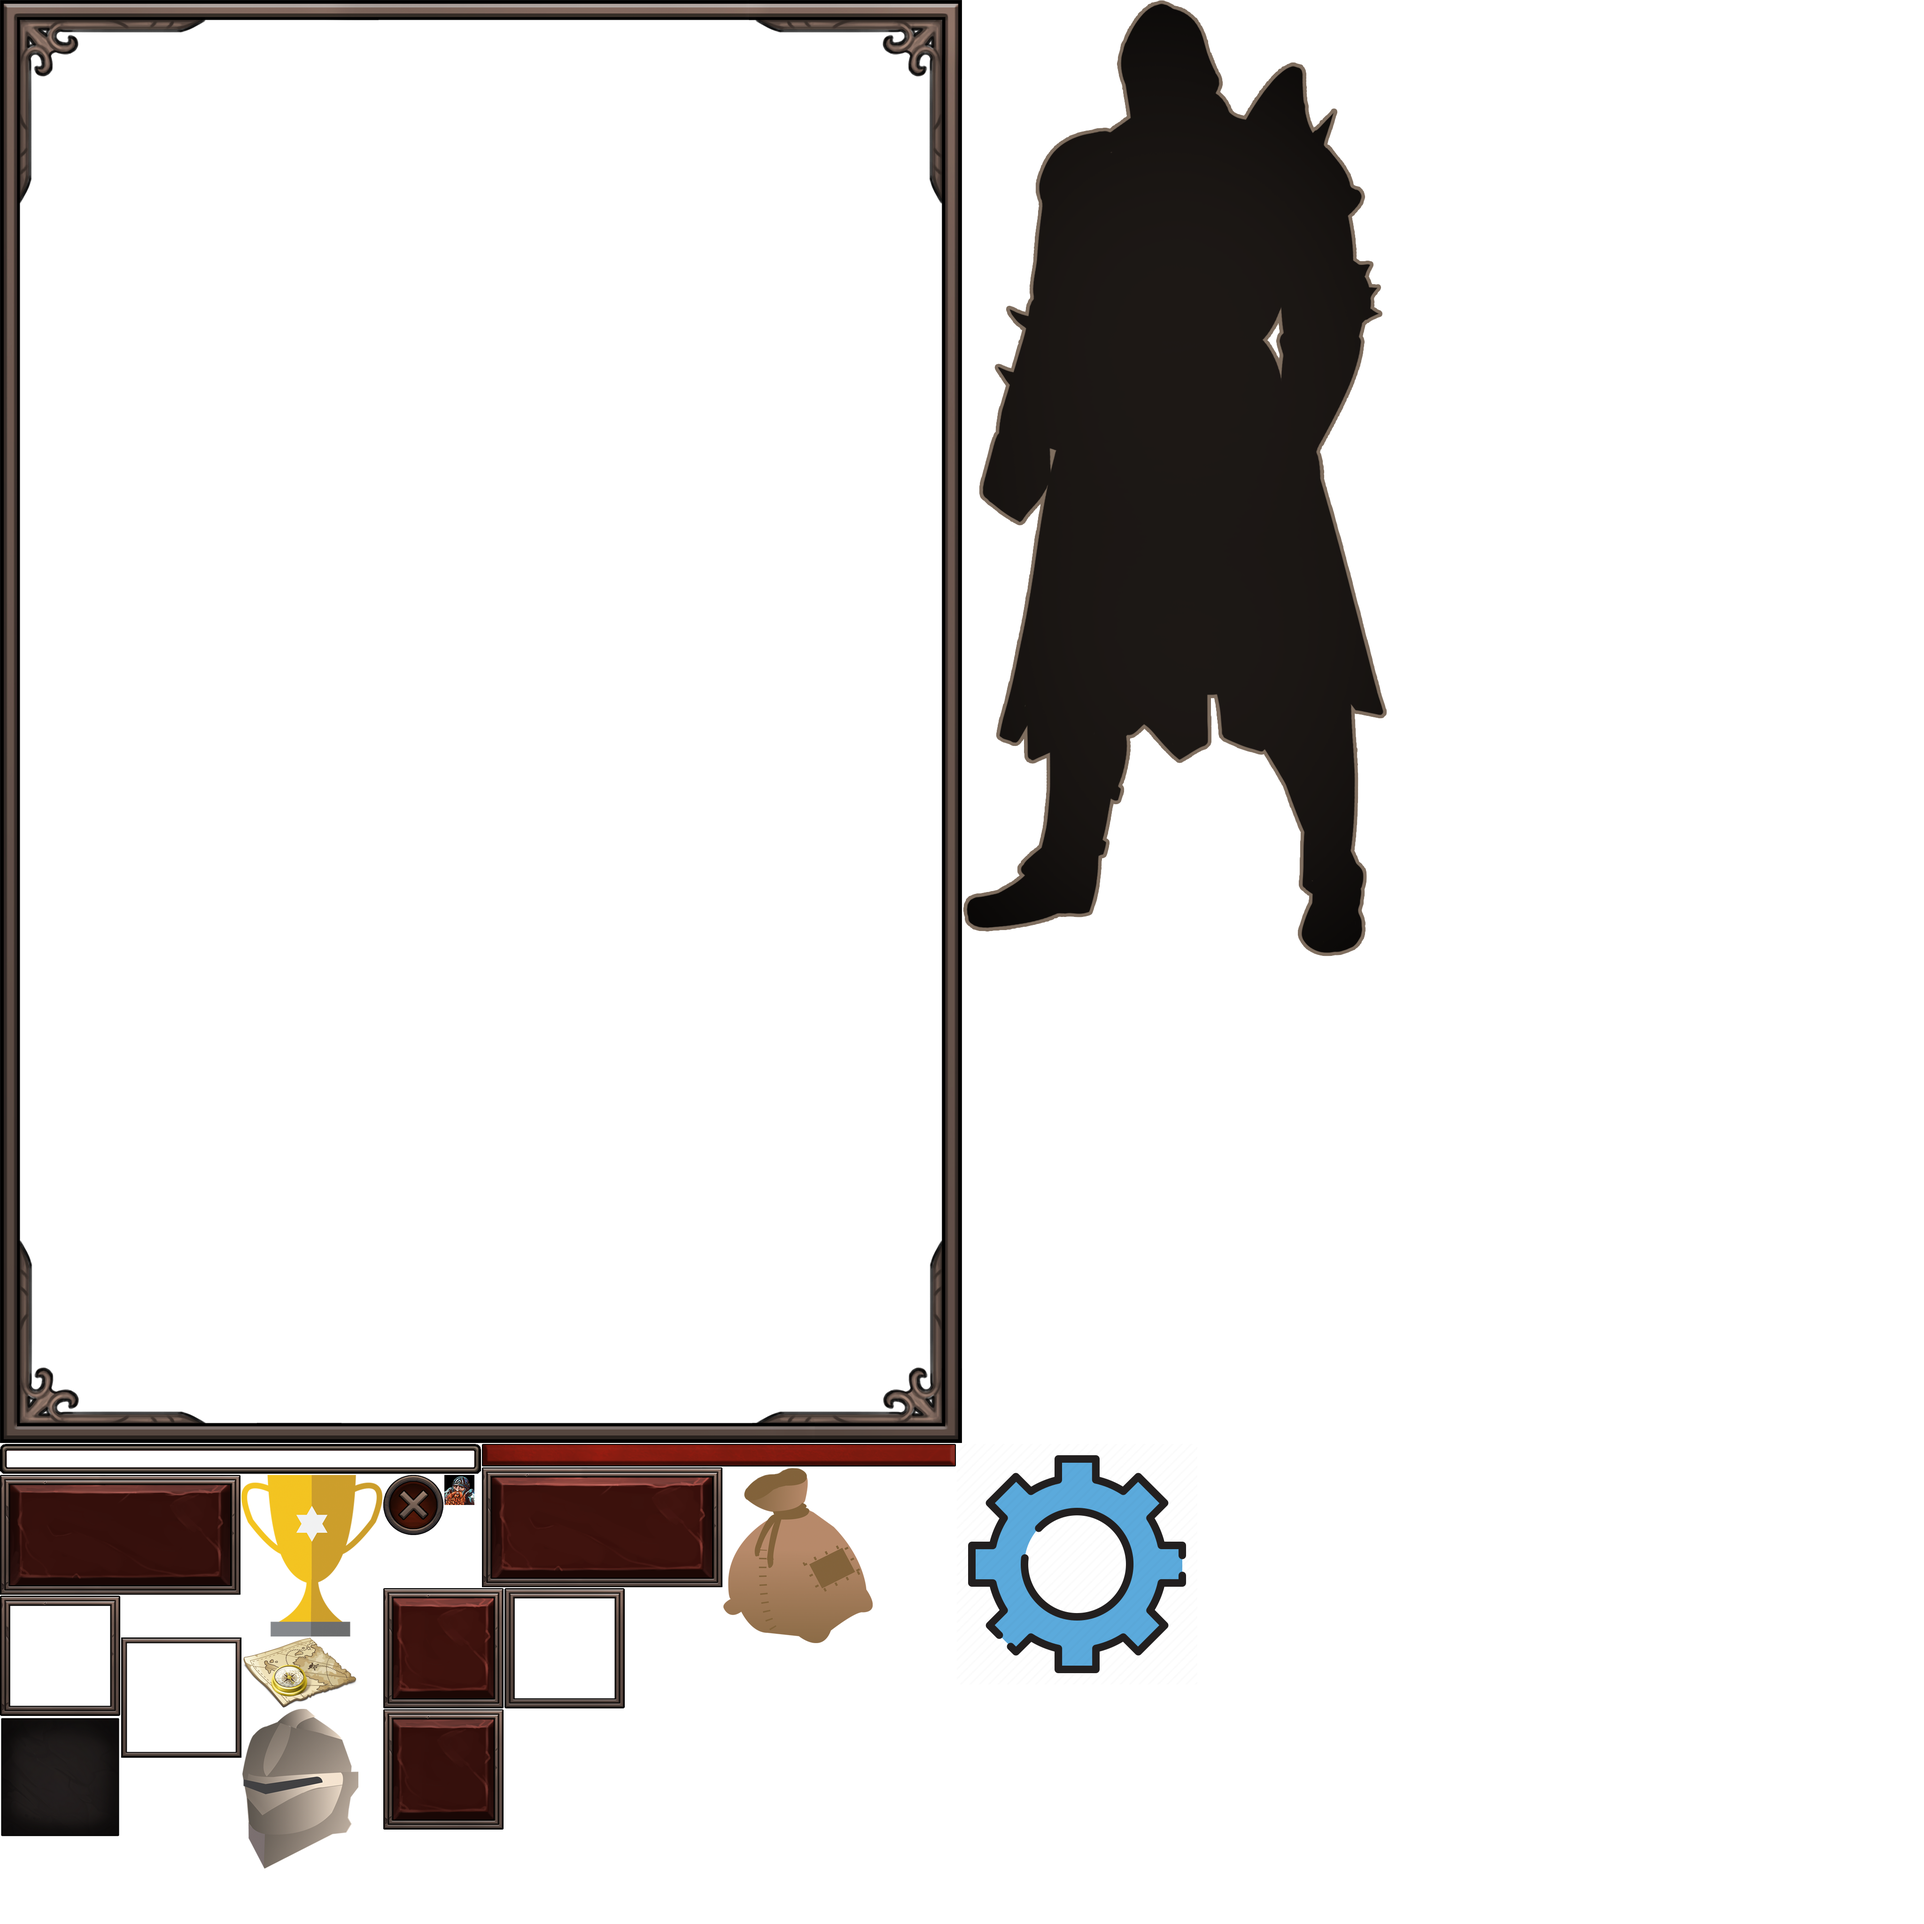
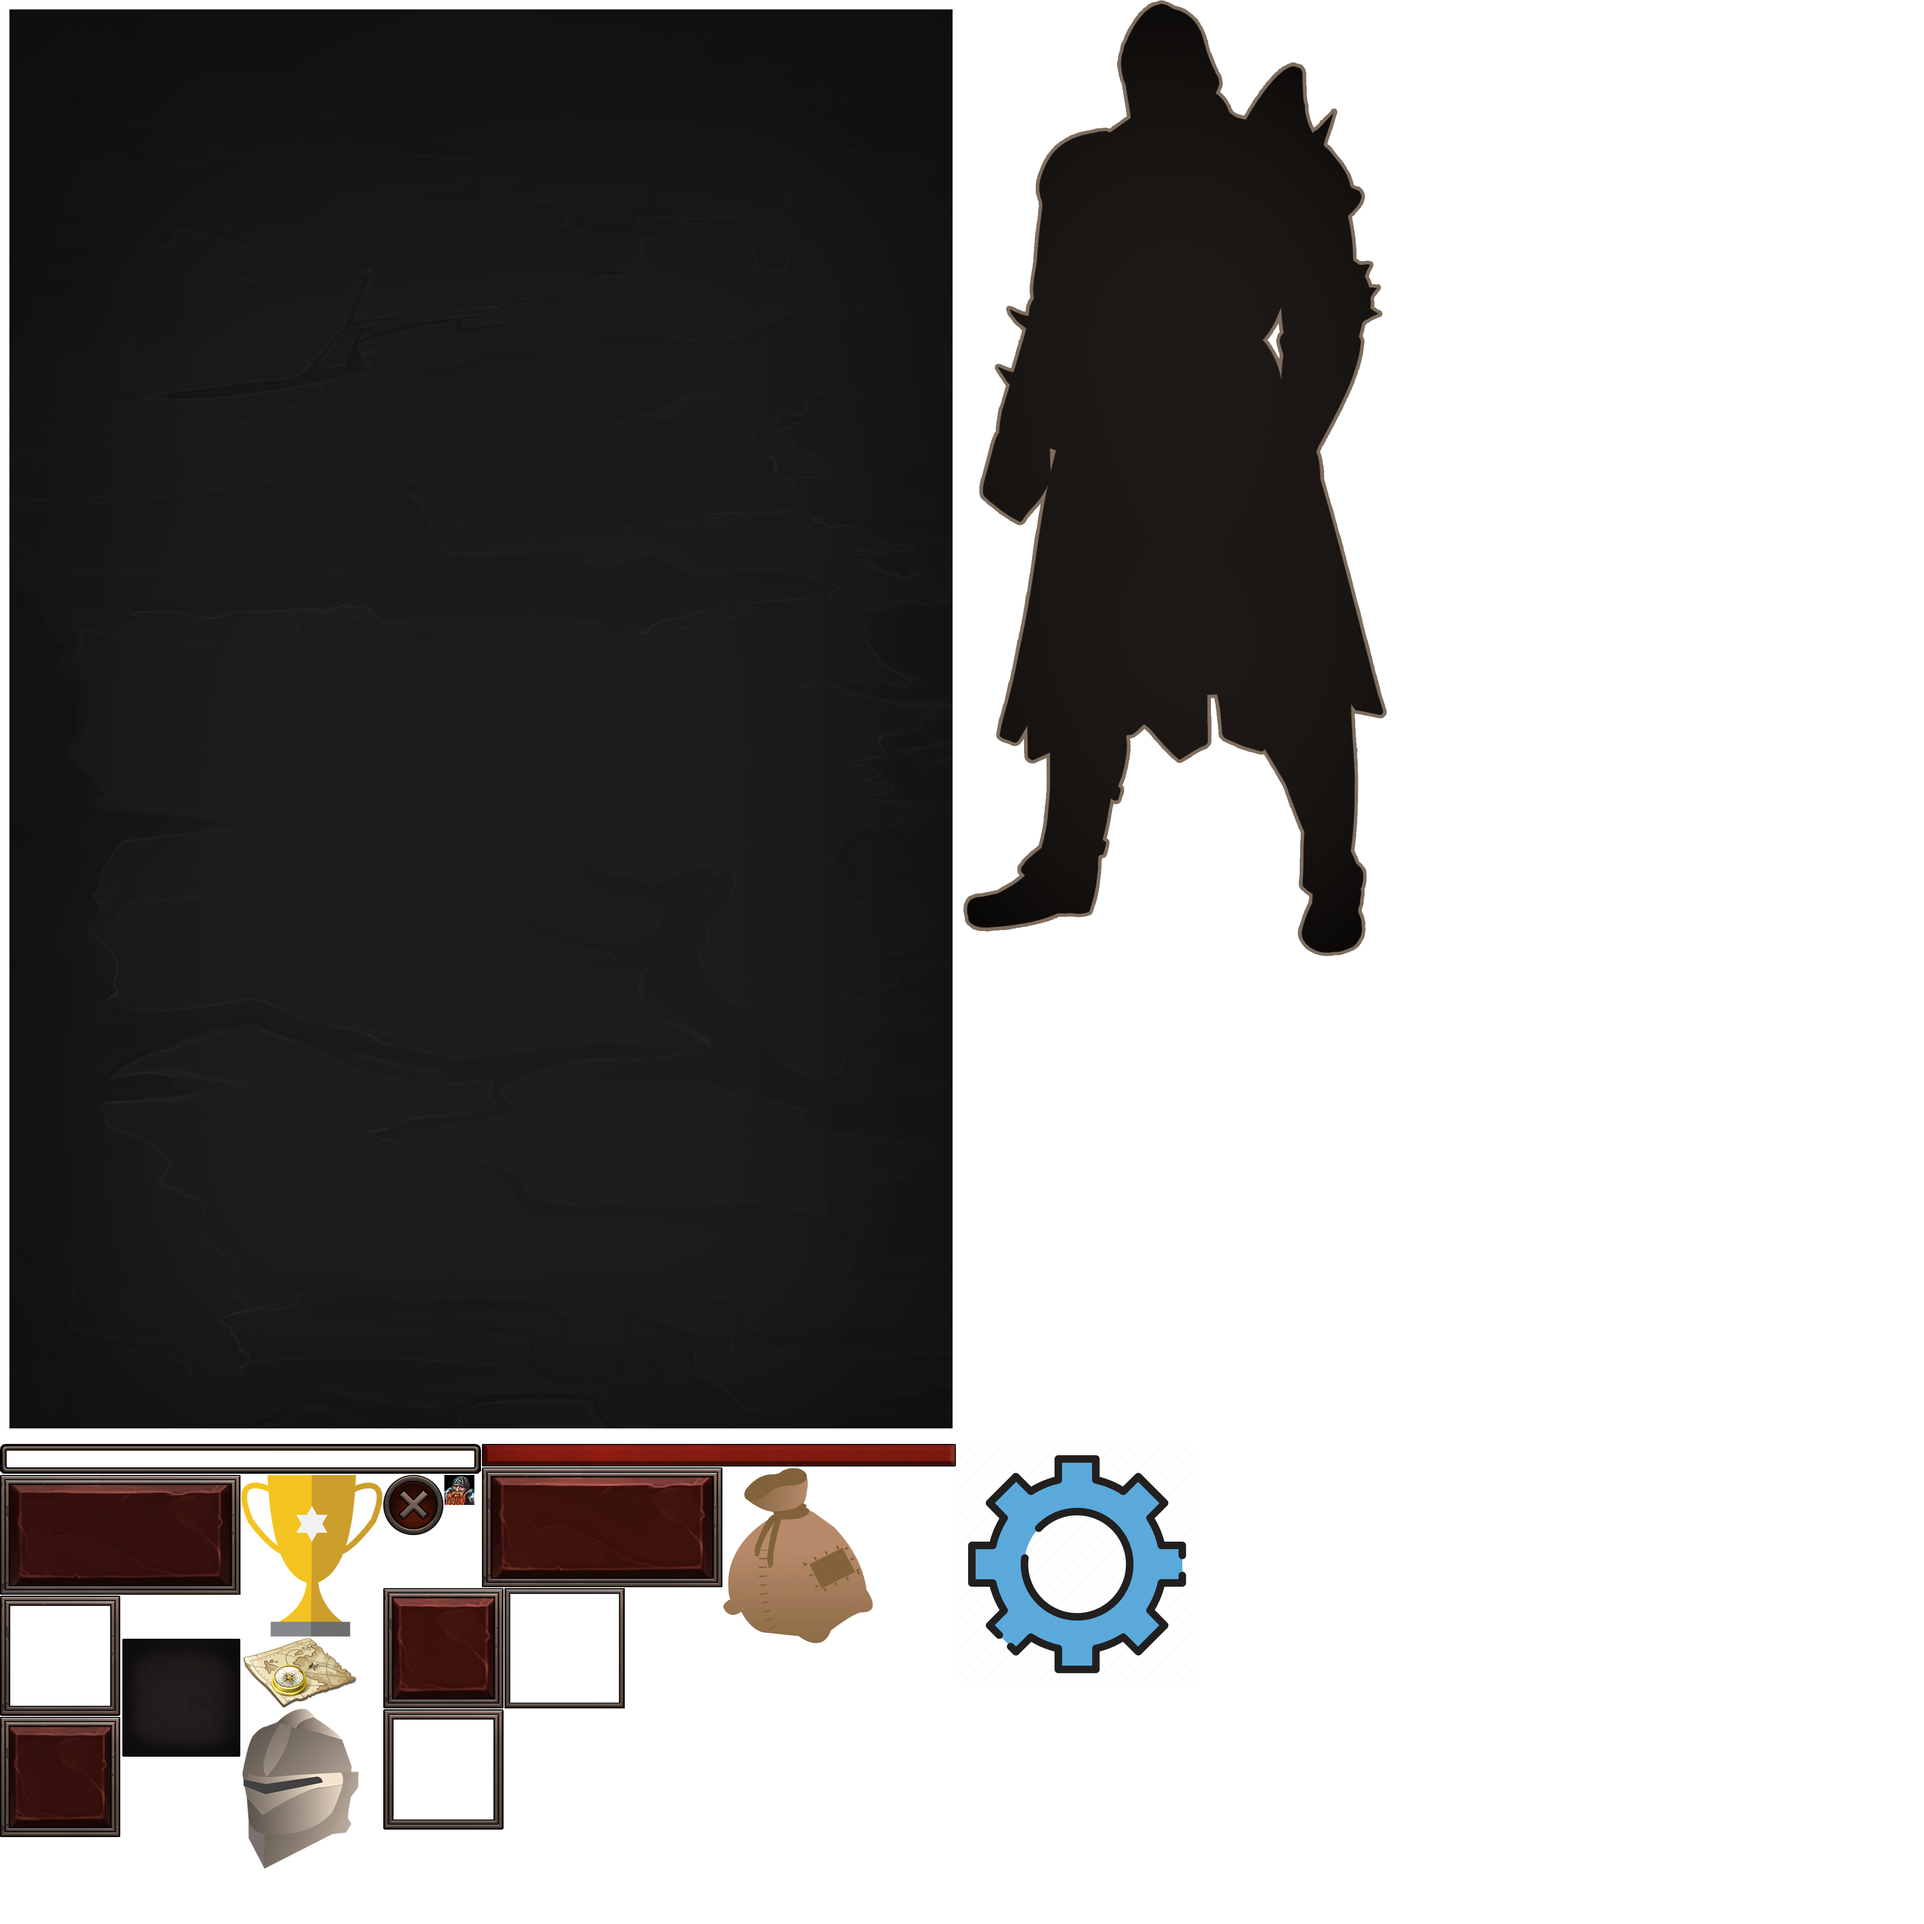
New Update FairyGUI Project

diff --git a/Assets/Resources/GameLogic/FairyGUI/MainUI/UI_BagBoxDown.cs b/Assets/Resources/GameLogic/FairyGUI/MainUI/UI_BagBoxDown.cs
@@ -1,0 +1,27 @@
+/** This is an automatically generated class by FairyGUI. Please do not modify it. **/
+
+using FairyGUI;
+using FairyGUI.Utils;
+
+namespace MainUI
+{
+    public partial class UI_BagBoxDown : GComponent
+    {
+        public GImage m_bg;
+        public GImage m_frame;
+        public const string URL = "ui://8cf5amhlhx1a2s";
+
+        public static UI_BagBoxDown CreateInstance()
+        {
+            return (UI_BagBoxDown)UIPackage.CreateObject("MainUI", "BagBoxDown");
+        }
+
+        public override void ConstructFromXML(XML xml)
+        {
+            base.ConstructFromXML(xml);
+
+            m_bg = (GImage)GetChildAt(0);
+            m_frame = (GImage)GetChildAt(1);
+        }
+    }
+}

diff --git a/Assets/Resources/GameLogic/FairyGUI/MainUI/MainUIBinder.cs b/Assets/Resources/GameLogic/FairyGUI/MainUI/MainUIBinder.cs
@@ -14,6 +14,7 @@ namespace MainUI
             UIObjectFactory.SetPackageItemExtension(UI_CharacterFrame.URL, typeof(UI_CharacterFrame));
             UIObjectFactory.SetPackageItemExtension(UI_BagBoxUp.URL, typeof(UI_BagBoxUp));
             UIObjectFactory.SetPackageItemExtension(UI_ButtonStyle1.URL, typeof(UI_ButtonStyle1));
+            UIObjectFactory.SetPackageItemExtension(UI_BagBoxDown.URL, typeof(UI_BagBoxDown));
         }
     }
 }
